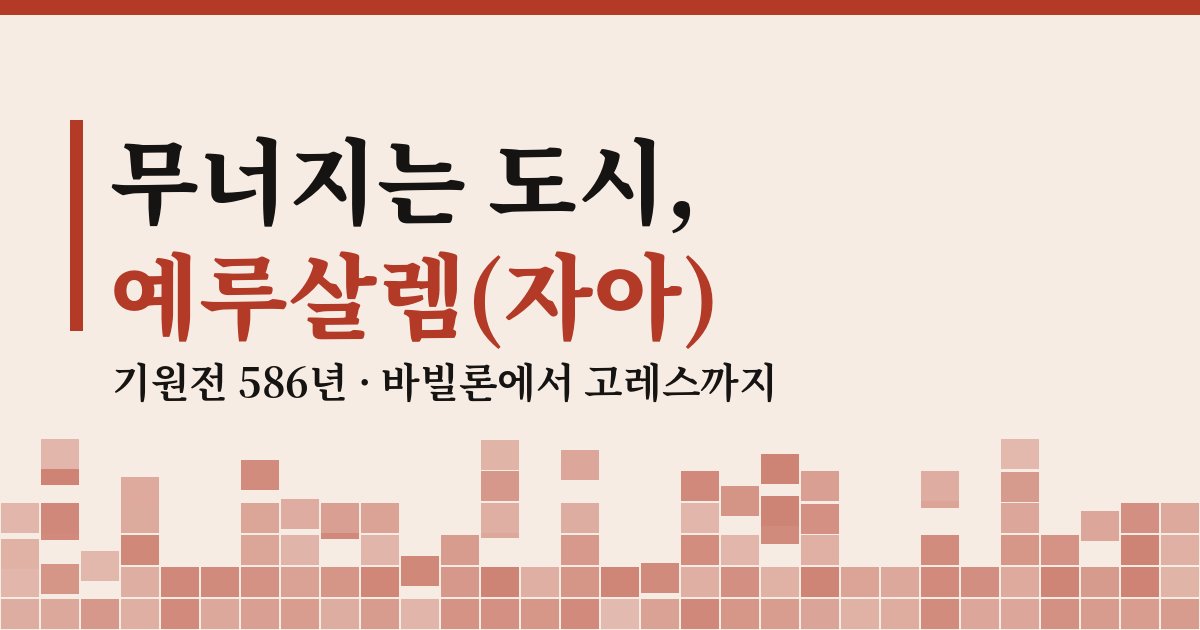
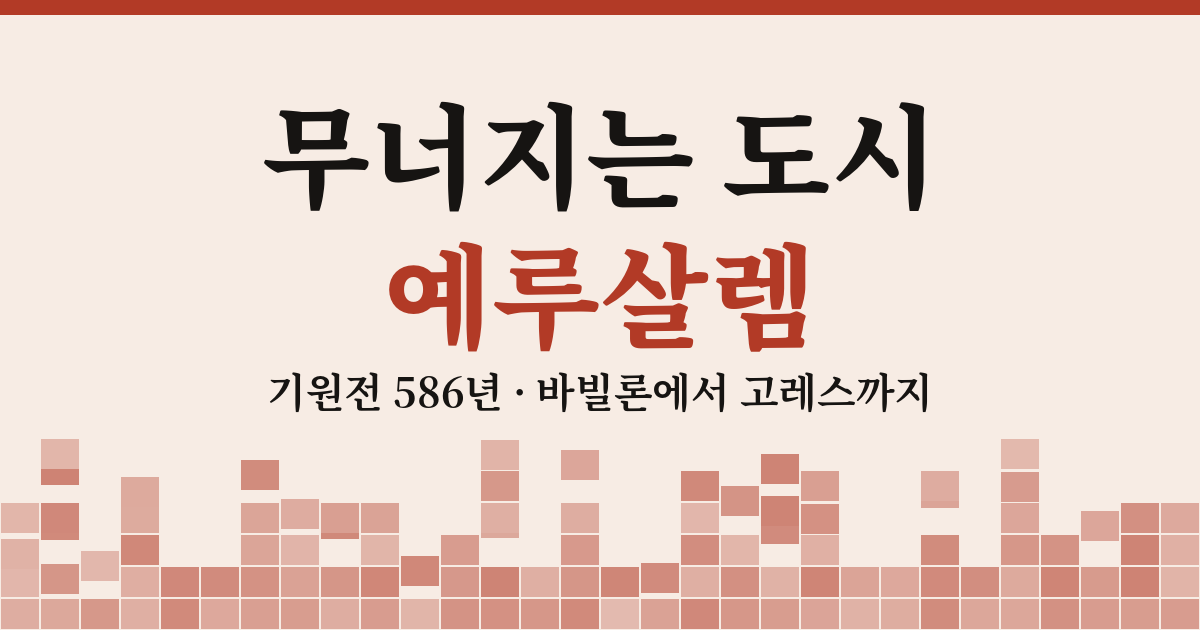
Add files via upload

Changed region(s): [[0.0308, 0.1508, 0.7708, 0.6635], [0.5858, 0.181, 0.7092, 0.3317], [0.7092, 0.1508, 0.7708, 0.3317]]

diff --git a/무너지는 도시 예루살렘.html b/무너지는 도시 예루살렘.html
@@ -29,9 +29,9 @@ section{position:relative;padding:14vh 22px;max-width:760px;margin:0 auto}
 section.hero{min-height:100vh;max-width:none;display:flex;flex-direction:column;justify-content:flex-start;padding-top:16vh;overflow:hidden}
 .hero>*:not(canvas){position:relative;z-index:2;max-width:760px;width:100%;margin:0 auto}
 #city{position:absolute;left:0;bottom:0;width:100%;height:46vh;z-index:1;pointer-events:none}
-h1{font-weight:900;font-size:clamp(34px,8vw,68px);line-height:1.25;color:var(--ink)}
+h1{text-align:center;font-weight:900;font-size:clamp(34px,8vw,68px);line-height:1.25;color:var(--ink)}
 h1 span{color:var(--ac);transition:color 1.4s}
-.hint{font:400 15px "Noto Sans KR",sans-serif;margin-top:26px;animation:bob 1.6s infinite}
+.hint{text-align:center;font:400 15px "Noto Sans KR",sans-serif;margin-top:26px;animation:bob 1.6s infinite}
 @keyframes bob{50%{transform:translateY(9px)}}
 h2{font-weight:900;font-size:clamp(28px,5.5vw,44px);line-height:1.35;margin-bottom:38px;padding-left:16px;border-left:8px solid var(--ac);transition:border-color 1.4s}
 h3{font-weight:700;font-size:clamp(21px,3.6vw,28px);margin:56px 0 18px;color:var(--ac);transition:color 1.4s}
@@ -68,7 +68,7 @@ ul li:before{content:"";position:absolute;left:16px;top:24px;width:12px;height:1
 
 <section class="hero" data-t="0" data-year="기원전 586년">
 <canvas id="city"></canvas>
-<h1>🏛 무너지는 도시, <span>예루살렘(자아)</span></h1>
+<h1>무너지는 도시<br><span>예루살렘</span></h1>
 <p class="hint">아래로 스크롤하세요</p>
 </section>
 
